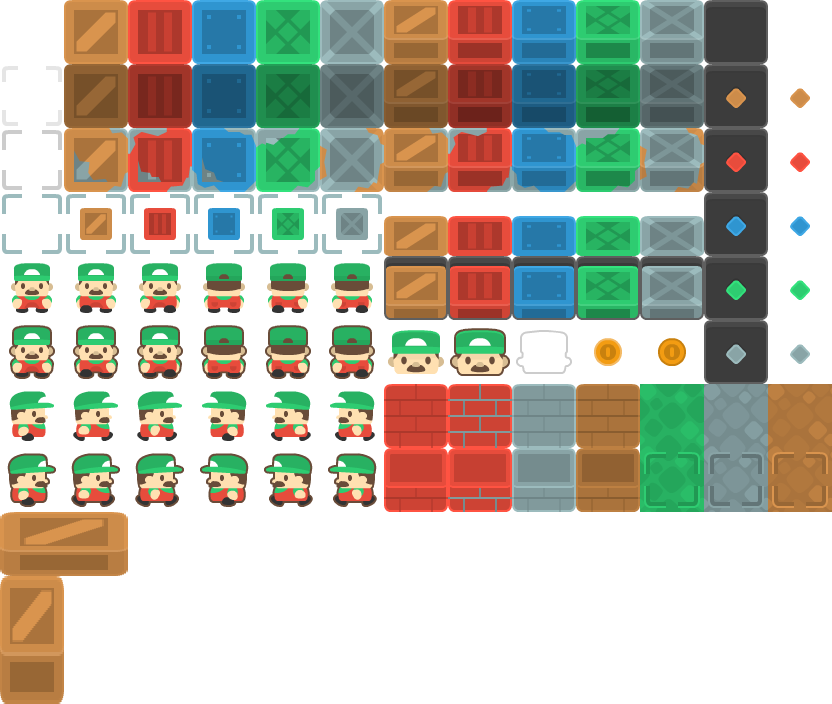
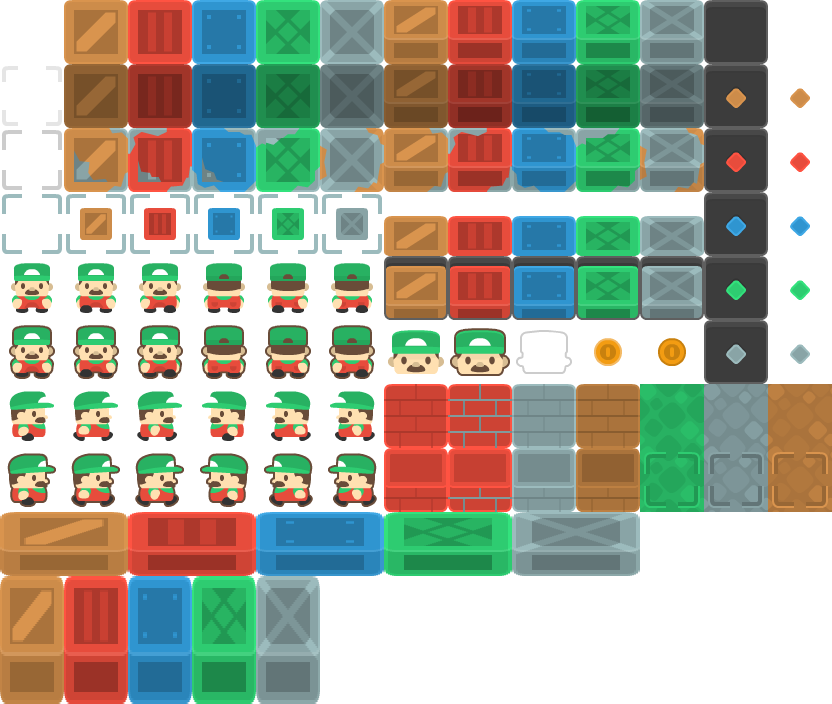
Added Wide and Tall boxes for RBGG - Didn't test them exhaustively tho so there could be a bug (hopefully not)

Changed region(s): [[0.0625, 0.7188, 0.7812, 1.0]]

diff --git a/src/utils/ColorUtils.ts b/src/utils/ColorUtils.ts
@@ -10,12 +10,28 @@ const boxToSwitchColor = (boxColor: number) => {
         case Color.Big.ORANGE_TALL_2:
             return Color.SWITCH_ORANGE;
         case Color.BOX_RED:
+        case Color.Big.RED_WIDE_1:
+        case Color.Big.RED_WIDE_2:
+        case Color.Big.RED_TALL_1:
+        case Color.Big.RED_TALL_2:
             return Color.SWITCH_RED;
         case Color.BOX_BLUE:
+        case Color.Big.BLUE_WIDE_1:
+        case Color.Big.BLUE_WIDE_2:
+        case Color.Big.BLUE_TALL_1:
+        case Color.Big.BLUE_TALL_2:
             return Color.SWITCH_BLUE;
         case Color.BOX_GREEN:
+        case Color.Big.GREEN_WIDE_1:
+        case Color.Big.GREEN_WIDE_2:
+        case Color.Big.GREEN_TALL_1:
+        case Color.Big.GREEN_TALL_2:
             return Color.SWITCH_GREEN;
         case Color.BOX_GREY:
+        case Color.Big.GREY_WIDE_1:
+        case Color.Big.GREY_WIDE_2:
+        case Color.Big.GREY_TALL_1:
+        case Color.Big.GREY_TALL_2:
             return Color.SWITCH_GREY;
         default: // could cause a bug
             return Color.SWITCH_WHITE;
@@ -32,20 +48,29 @@ const switchToBoxColor = (switchColor: number) => {
                     Color.Big.ORANGE_WIDE_1, Color.Big.ORANGE_WIDE_2,
                     Color.Big.ORANGE_TALL_1, Color.Big.ORANGE_TALL_2];
         case Color.SWITCH_RED:
-            return [Color.BOX_RED];
+            return [Color.BOX_RED,
+                    Color.Big.RED_WIDE_1, Color.Big.RED_WIDE_2,
+                    Color.Big.RED_TALL_1, Color.Big.RED_TALL_2];
         case Color.SWITCH_BLUE:
-            return [Color.BOX_BLUE];
+            return [Color.BOX_BLUE,
+                    Color.Big.BLUE_WIDE_1, Color.Big.BLUE_WIDE_2,
+                    Color.Big.BLUE_TALL_1, Color.Big.BLUE_TALL_2];
         case Color.SWITCH_GREEN:
-            return [Color.BOX_GREEN];
+            return [Color.BOX_GREEN,
+                    Color.Big.GREEN_WIDE_1, Color.Big.GREEN_WIDE_2,
+                    Color.Big.GREEN_TALL_1, Color.Big.GREEN_TALL_2];
         case Color.SWITCH_GREY:
-            return [Color.BOX_GREY];
-        // case Color.SWITCH_WHITE (return all boxes)
+            return [Color.BOX_GREY,
+                    Color.Big.GREY_WIDE_1, Color.Big.GREY_WIDE_2,
+                    Color.Big.GREY_TALL_1, Color.Big.GREY_TALL_2];
+        // case Color.SWITCH_WHITE (return all boxes) ??
     }
 };
 
 
 const bigBoxPartner = (boxColor: number) => {
     switch (boxColor) {
+        
         case Color.Big.ORANGE_WIDE_1:
             return Color.Big.ORANGE_WIDE_2;
         case Color.Big.ORANGE_WIDE_2:
@@ -54,6 +79,43 @@ const bigBoxPartner = (boxColor: number) => {
             return Color.Big.ORANGE_TALL_2;
         case Color.Big.ORANGE_TALL_2:
             return Color.Big.ORANGE_TALL_1;
+        
+        case Color.Big.RED_WIDE_1:
+            return Color.Big.RED_WIDE_2;
+        case Color.Big.RED_WIDE_2:
+            return Color.Big.RED_WIDE_1;
+        case Color.Big.RED_TALL_1:
+            return Color.Big.RED_TALL_2;
+        case Color.Big.RED_TALL_2:
+            return Color.Big.RED_TALL_1;
+        
+        case Color.Big.BLUE_WIDE_1:
+            return Color.Big.BLUE_WIDE_2;
+        case Color.Big.BLUE_WIDE_2:
+            return Color.Big.BLUE_WIDE_1;
+        case Color.Big.BLUE_TALL_1:
+            return Color.Big.BLUE_TALL_2;
+        case Color.Big.BLUE_TALL_2:
+            return Color.Big.BLUE_TALL_1;
+        
+        case Color.Big.GREEN_WIDE_1:
+            return Color.Big.GREEN_WIDE_2;
+        case Color.Big.GREEN_WIDE_2:
+            return Color.Big.GREEN_WIDE_1;
+        case Color.Big.GREEN_TALL_1:
+            return Color.Big.GREEN_TALL_2;
+        case Color.Big.GREEN_TALL_2:
+            return Color.Big.GREEN_TALL_1;
+    
+        case Color.Big.GREY_WIDE_1:
+            return Color.Big.GREY_WIDE_2;
+        case Color.Big.GREY_WIDE_2:
+            return Color.Big.GREY_WIDE_1;
+        case Color.Big.GREY_TALL_1:
+            return Color.Big.GREY_TALL_2;
+        case Color.Big.GREY_TALL_2:
+            return Color.Big.GREY_TALL_1;
+        
         default: // boxColor isn't a wide or tall box...
             return -1;
     }

diff --git a/src/consts/Color.ts b/src/consts/Color.ts
@@ -16,7 +16,23 @@ const Big = {
     ORANGE_WIDE_1: 104,
     ORANGE_WIDE_2: 105,
     ORANGE_TALL_1: 117,
-    ORANGE_TALL_2: 130
+    ORANGE_TALL_2: 130,
+    RED_WIDE_1: 106,
+    RED_WIDE_2: 107,
+    RED_TALL_1: 118,
+    RED_TALL_2: 131,
+    BLUE_WIDE_1: 108,
+    BLUE_WIDE_2: 109,
+    BLUE_TALL_1: 119,
+    BLUE_TALL_2: 132,
+    GREEN_WIDE_1: 110,
+    GREEN_WIDE_2: 111,
+    GREEN_TALL_1: 120,
+    GREEN_TALL_2: 133,
+    GREY_WIDE_1: 112,
+    GREY_WIDE_2: 113,
+    GREY_TALL_1: 121,
+    GREY_TALL_2: 134
 };
 
 export {
